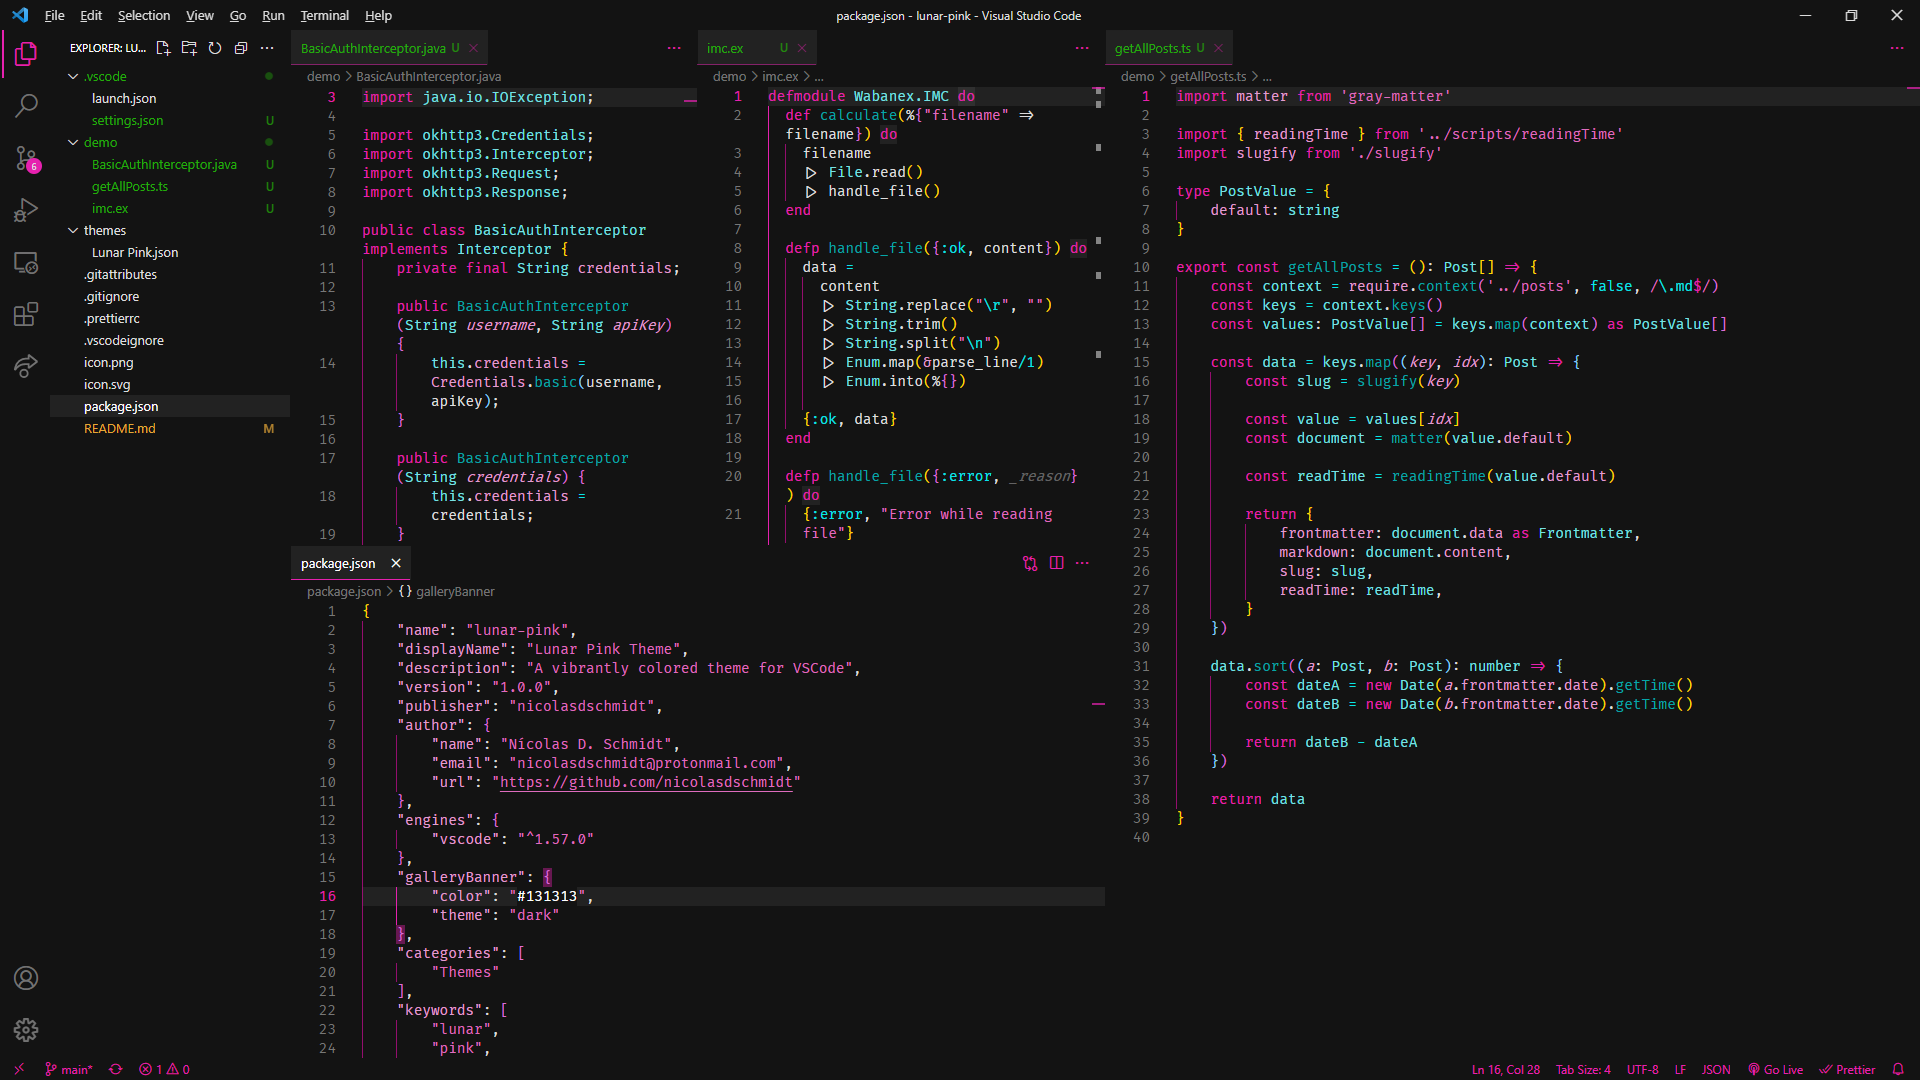
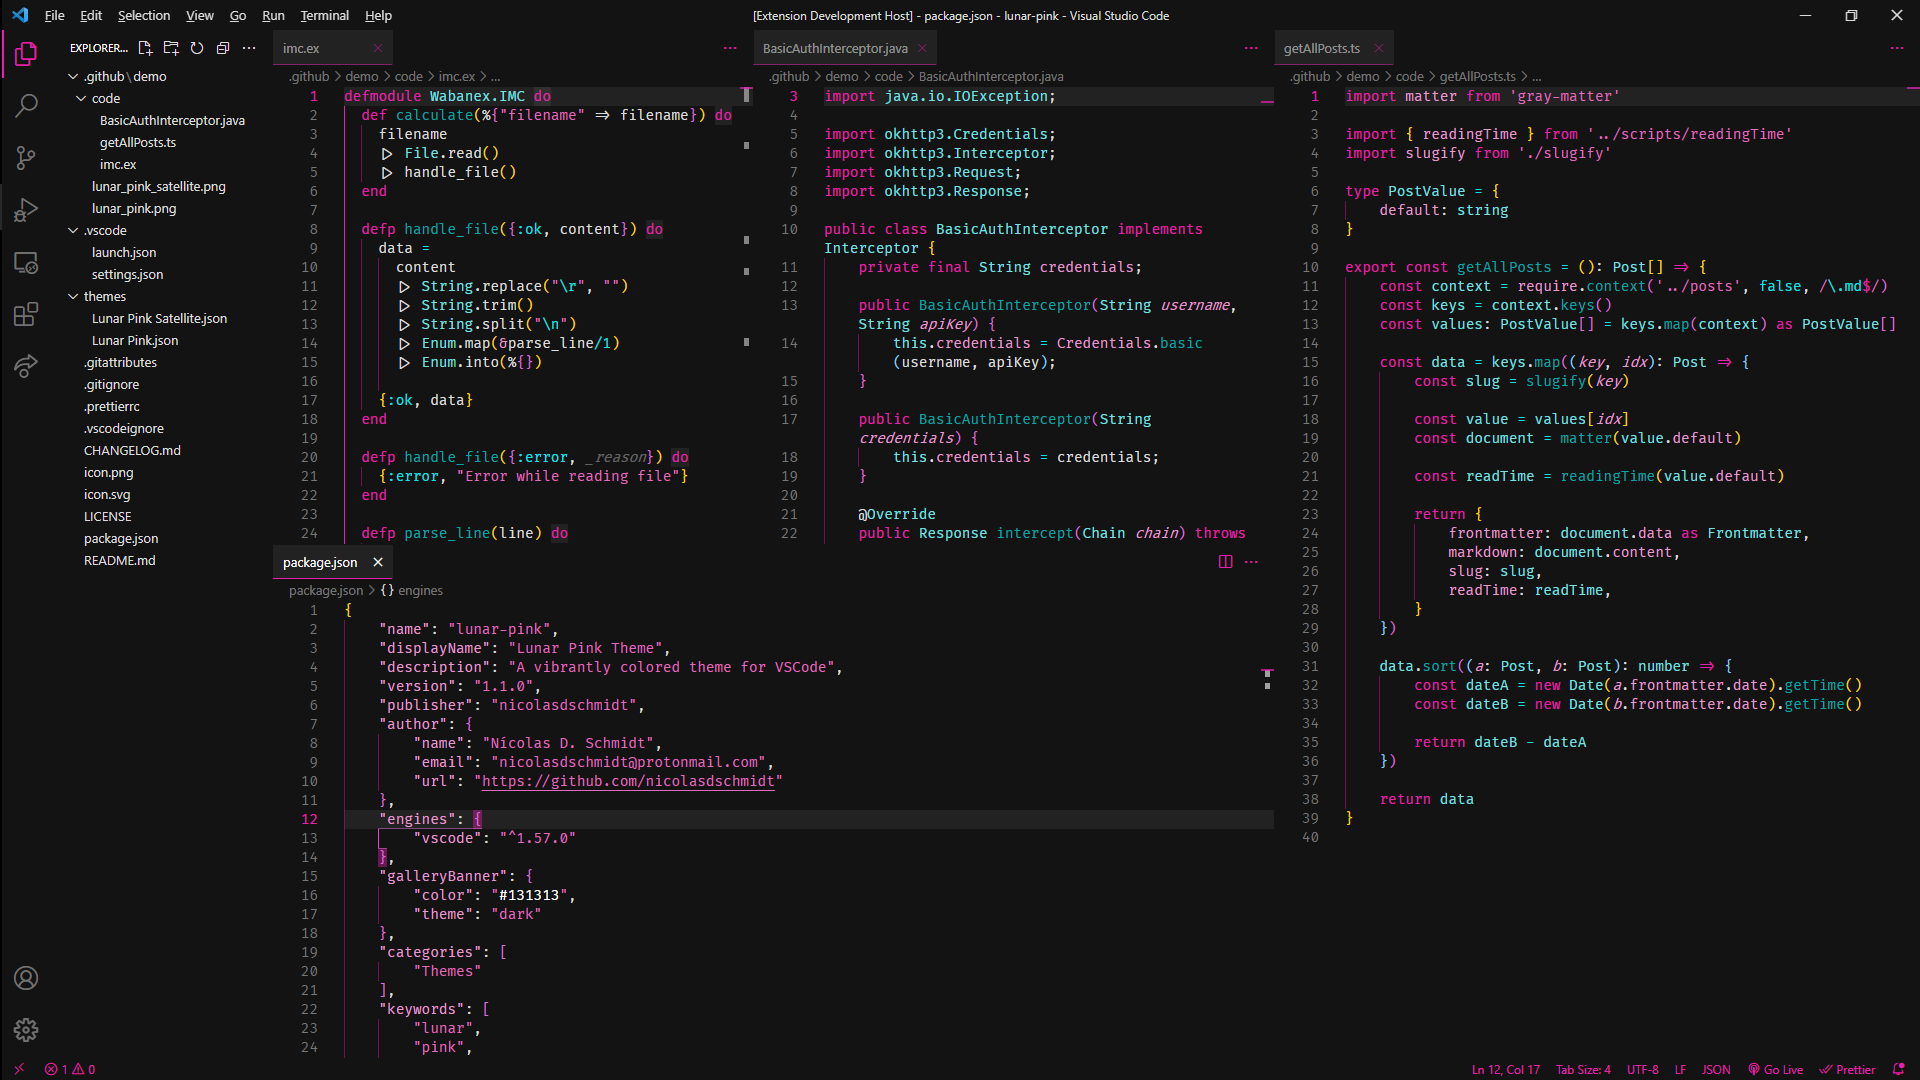
visibility improvements
- terminal ansiBlack
- indent guides

diff --git a/CHANGELOG.md b/CHANGELOG.md
@@ -1,14 +1,20 @@
 # Changelog
 
-## [1.0.3] - 2021-06-25
+## [1.1.0] - 2021-06-27
+
+- Improve dark text visibility in terminal
+- Reduce inactive indent guide opacity
+- Fix dates in CHANGELOG
+
+### [1.0.3] - 2021-06-26
 
 - Fix typo in README
 
-## [1.0.2] - 2021-06-25
+### [1.0.2] - 2021-06-25
 
 - Fix README images (the correct way)
 
-## [1.0.1] - 2021-06-25
+### [1.0.1] - 2021-06-25
 
 - Fix README images
 
